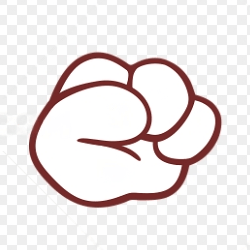
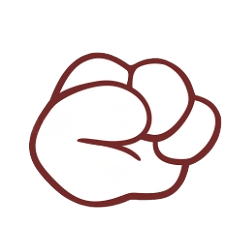
feat: to do : selected img error

diff --git a/src/pages/index/index.tsx b/src/pages/index/index.tsx
@@ -3,17 +3,40 @@ import styles from './index.module.less';
 import { createLine, translatePosition, clickPosition } from '@/utils';
 import * as PIXI from 'pixi.js';
 import globalStore from '@/store/store';
-import { observer } from 'mobx-react';
+import { observer, useObserver, Observer } from 'mobx-react';
 import classNames from 'classnames';
 import { BgLayoutItemType, Status } from '@/typings';
 import Modal from '@/components/modal/modal';
 import Typewriter from '@/components/typewriter/typewriter';
+import rock1 from '@/assets/images/rock-game-1.png';
+import rock2 from '@/assets/images/rock-game-2.png';
+import rock3 from '@/assets/images/rock-game-3.png';
 
 interface RectGraphics extends PIXI.Graphics {
   rectType: BgLayoutItemType;
   paramX: number;
   paramY: number;
 }
+
+interface RockListItem {
+  key: string;
+  img: string;
+}
+
+const rockList: RockListItem[] = [
+  {
+    key: '0',
+    img: rock1,
+  },
+  {
+    key: '1',
+    img: rock2,
+  },
+  {
+    key: '2',
+    img: rock3,
+  },
+];
 
 const WIDTH = 700;
 const HEIGHT = 700;
@@ -38,6 +61,8 @@ const Index = () => {
     y: 0,
   });
   const [flash, setFlash] = useState(0);
+  const [open, setOpen] = useState(false);
+  const [selectedList, setSelectedList] = useState<RockListItem[]>([]);
 
   useEffect(() => {
     let _app = new PIXI.Application({
@@ -253,6 +278,9 @@ const Index = () => {
     if (rectType === BgLayoutItemType.duel) {
       globalStore.status = Status.stop;
       setFlash(Math.random());
+      setTimeout(() => {
+        setOpen(true);
+      }, 500);
     }
     // createRect({
     //   position: translatePosition({
@@ -276,7 +304,18 @@ const Index = () => {
     // });
     mainPosition.current = { ...nextStep };
   };
-  const [open, setOpen] = useState(false);
+
+  const selectedRock = (data: RockListItem) => {
+    setSelectedList((preData) => {
+      if (preData.length > 2) {
+        return preData;
+      }
+      return [...preData, data];
+    });
+  };
+  useEffect(() => {
+    console.log(1111, selectedList);
+  }, [selectedList]);
   return (
     <div className={styles.indexMain}>
       <button
@@ -291,10 +330,41 @@ const Index = () => {
           className={`${styles.flashBox} ${flash ? styles.flash : ''}`}
         ></div>
       </div>
-      <Modal isOpen={open}>
-        <div>
-          <Typewriter text="这个是石头剪刀布游戏"></Typewriter>
-          <button onClick={() => setOpen(false)}>关闭</button>
+      <Modal isOpen={open} className={styles.modalBox} width={600} height={600}>
+        <div className={styles.gameBox}>
+          <h1 className="title-1">决斗吧，骚年</h1>
+          <p>规则：</p>
+          <Typewriter text="选择每一轮的石头剪刀布，三局两胜!"></Typewriter>
+          <div className={styles.gameMain}>
+            <div className={styles.imgListBox}>
+              {rockList.map((item) => (
+                <img
+                  key={item.key}
+                  src={item.img}
+                  width={100}
+                  onClick={() => selectedRock(item)}
+                />
+              ))}
+            </div>
+            <div className={styles.resultBox}>
+              {['一', '二', '三'].map((item, index) => (
+                <div key={index} className={styles.resultItemBox}>
+                  <title>{`第${item}局`}选择</title>
+                  <div
+                    className={styles.resultItemImg}
+                    style={{
+                      backgroundImage: `url('${
+                        selectedList[index] ? selectedList[index].img : ''
+                      }')`,
+                    }}
+                  ></div>
+                </div>
+              ))}
+            </div>
+          </div>
+          <button className="btn btn-primary" onClick={() => setOpen(false)}>
+            投降
+          </button>
         </div>
       </Modal>
     </div>

diff --git a/src/components/modal/modal.tsx b/src/components/modal/modal.tsx
@@ -2,13 +2,21 @@ import { useEffect, PropsWithChildren, useState } from 'react';
 import ReactDOM from 'react-dom/client';
 import { randomHash } from '@/utils';
 import './modal.less';
+import classnames from 'classnames';
 
 interface ModalProps extends PropsWithChildren {
   isOpen: boolean;
+  className?: string;
+  width?: number;
+  height?: number;
 }
 
 export default function Modal(props: ModalProps) {
-  const { isOpen } = props;
+  const { isOpen, className, width, height } = props;
+  const styles = {
+    ...(width ? { width: `${width}px` } : {}),
+    ...(height ? { height: `${height}px` } : {}),
+  };
   const [domId, setDomId] = useState('');
   useEffect(() => {
     if (!isOpen) {
@@ -24,8 +32,10 @@ export default function Modal(props: ModalProps) {
     dom.id = id;
     document.body.appendChild(dom);
     ReactDOM.createRoot(document.getElementById(id) as HTMLElement).render(
-      <div className="modal-wrap">
-        <div className="modal-main">{props.children}</div>
+      <div className={classnames(['modal-wrap', className || ''])}>
+        <div className="modal-main" style={styles}>
+          {props.children}
+        </div>
       </div>
     );
   }, [isOpen]);

diff --git a/src/pages/index/index.module.less b/src/pages/index/index.module.less
@@ -53,3 +53,47 @@
     }
   }
 }
+
+.modalBox {
+  .modal-main {
+    width: 100%;
+    height: 100%;
+  }
+
+  .gameBox {
+    padding: 16px 12px;
+    width: 100%;
+    height: 100%;
+    color: #FFFFFF;
+    background-color: #3C3C3C;
+
+    .imgListBox {
+      display: flex;
+      align-items: center;
+
+      img {
+        cursor: pointer;
+        transition: transform .25s ease-in;
+
+        &:hover {
+          transform: scale(1.1);
+        }
+      }
+    }
+
+    .resultBox {
+      display: flex;
+      align-items: center;
+
+      .resultItemBox {
+        .resultItemImg {
+          border: 1px solid #FFFFFF;
+          width: 80px;
+          height: 80px;
+          background-repeat: no-repeat;
+          background-size: 100% 100%;
+        }
+      }
+    }
+  }
+}

diff --git a/src/index.less b/src/index.less
@@ -31,9 +31,9 @@ td {
 
 html,
 body {
-  font-size: 14px;
+  font-size: 16px;
   font-family: ZpixLocal, sans-serif;
-  font-weight: bold;
+  font-weight: 400;
   color: #333333;
   // color: #68F9CB;
   background: #FFFFFF;
@@ -112,4 +112,9 @@ html {
   font-family: ZpixLocal;
   // src: url(zpix.woff2);
   src: url("./assets/fonts/zpix-split.woff");
+}
+
+.title-1 {
+  font-size: 24px;
+  text-align: center;
 }

diff --git a/src/components/typewriter/typewriter.less b/src/components/typewriter/typewriter.less
@@ -8,7 +8,7 @@
     margin-left: 4px;
     width: 2px;
     height: 12px;
-    background-color: #3C3C3C;
+    background-color: #FFFFFF;
     animation: flashing 1s ease-in-out infinite;
   }
 

diff --git a/src/components/modal/modal.less b/src/components/modal/modal.less
@@ -11,6 +11,7 @@
 
   .modal-main {
     min-width: 350px;
+    height: 200px;
     min-height: 200px;
     background-color: #EDEDED;
   }
